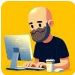
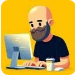
test: 系统消息监听

diff --git a/WeChatAuto4_X/wechatauto_py/src/wechat_auto_sdk/websocket_client.py b/WeChatAuto4_X/wechatauto_py/src/wechat_auto_sdk/websocket_client.py
@@ -1,15 +1,21 @@
+from __future__ import annotations
+
 import asyncio
 import websockets
 import uuid
 import json
 
 from collections.abc import Awaitable, Callable
+from typing import TYPE_CHECKING
 
 from wechat_auto_sdk.cancellation_token_source import CancellationTokenSource
 from wechat_auto_sdk.models.request_data import RequestData
 from wechat_auto_sdk.models.message_package import MessagePackage
+
 from wechat_auto_sdk.models.system_message_context import SystemMessageContext
-from wechat_auto_sdk.wechat_client import WeChatClient
+
+if TYPE_CHECKING:
+    from wechat_auto_sdk.wechat_client import WeChatClient
 
 
 class WebSocketClient:
@@ -24,7 +30,7 @@ class WebSocketClient:
         self._rev_loop_task: asyncio.Task | None = None
         # 群系统消息监控器
         self._group_system_message_monitor: dict[
-            str, Callable[[SystemMessageContext], Awaitable[None]]
+            str, Callable[[SystemMessageContext, WeChatClient], Awaitable[None]]
         ] = {}
         self._group_system_message_client: dict[str, WeChatClient] = {}
 
@@ -49,7 +55,8 @@ class WebSocketClient:
                     if self._group_system_message_monitor:
                         if self._group_system_message_monitor.get(result.request_id):
                             # 系统消息监听
-                            await self._process_system_message_monitor_callback(result)
+                            # await self._process_system_message_monitor_callback(result)
+                            asyncio.create_task(self._process_system_message_monitor_callback(result))
                             continue
                     business_future = self._pending_requests.pop(
                         result.request_id, None
@@ -73,17 +80,15 @@ class WebSocketClient:
         if not result.data:
             return
         callback = self._group_system_message_monitor[result.request_id]
-        system_monitor_result = json.loads(result.data)
+        new_messages = json.loads(result.data)
         client: WeChatClient = self._group_system_message_client[result.request_id]
         from_who: str = client.from_wechat
-        new_messages: list[str] = json.loads(system_monitor_result["new_messages"])
-        await callback(
-            SystemMessageContext(
-                from_who=from_who,
-                new_messages=new_messages,
-                client=client,
-            )
+
+        context = SystemMessageContext(
+            from_who=from_who,
+            new_messages=new_messages,
         )
+        await callback(context, client)
 
     async def start(self) -> None:
         """
@@ -113,6 +118,12 @@ class WebSocketClient:
         await self.ws.send(request.model_dump_json())
         return await future
 
+    async def send_withoud_wait(self, message: str, req_id: str | None = None) -> None:
+        """发送结构化数据,不待候返回值"""
+        request_id = uuid.uuid4().hex if req_id is None else req_id
+        request = RequestData(type="command", data=message, request_id=request_id)
+        await self.ws.send(request.model_dump_json())
+
     async def request(self, request: RequestData) -> str:
         """发送原始字符串"""
         loop = asyncio.get_running_loop()
@@ -130,15 +141,9 @@ class WebSocketClient:
         package: MessagePackage,
         request_id: str,
         nick_names: list[str],
-        callback: Callable[[SystemMessageContext], Awaitable[None]],
+        callback: Callable[[SystemMessageContext, WeChatClient], Awaitable[None]],
         client: WeChatClient,
     ) -> None:
         self._group_system_message_monitor[request_id] = callback
         self._group_system_message_client[request_id] = client
-        await self.send(package.model_dump_json(), package.request_id)
-
-    async def keep_running(self) -> None:
-        """
-        保存运行状态，即异步阻塞状态
-        """
-        await asyncio.Future()
+        await self.send_withoud_wait(package.model_dump_json(), package.request_id)

diff --git a/WeChatAuto4_X/WebSocketServer/Server/WebSockets/MessageHandler.cs b/WeChatAuto4_X/WebSocketServer/Server/WebSockets/MessageHandler.cs
@@ -12,12 +12,13 @@ using WeAutoCommon.Enums;
 using WeChatAuto.Components;
 using WeChatAuto.Models;
 using WeChatAuto.Options;
+using WeChatAuto.Services;
 
 public class MessageHandler : IDisposable
 {
     private readonly WeChatClientFactory factory;
     private readonly ILogger<MessageHandler> logger;
-    private readonly CancellationTokenSource cts = new CancellationTokenSource();
+    private  CancellationTokenSource cts = new CancellationTokenSource();
     private Task? groupSysMessageMonitorTask;
 
     public MessageHandler(WeChatClientFactory factory, ILogger<MessageHandler> logger)
@@ -25,7 +26,7 @@ public class MessageHandler : IDisposable
         this.factory = factory;
         this.logger = logger;
     }
-    public async Task<RequestData> HandleAsync(MessagePackageWrapper wrapper)
+    public async Task<RequestData> HandleAsync(MessagePackageWrapper wrapper, CancellationToken token = default)
     {
         var client = factory.GetWeChatClient(wrapper.FromWechat);
         RequestData response = new RequestData
@@ -383,9 +384,24 @@ public class MessageHandler : IDisposable
                 response.Data = remove_result.ToString();
                 break;
             case "AddGroupSystemMessageListener":
+                //关闭掉以前的线程
+                if (groupSysMessageMonitorTask != null)
+                {
+                    cts.Cancel();
+                    if (groupSysMessageMonitorTask.Status == TaskStatus.Running)
+                    {
+                        await groupSysMessageMonitorTask.WaitAsync(TimeSpan.FromSeconds(WeAutomation.Config.MonitorGroupInterval));
+                    }
+                    cts = new CancellationTokenSource();
+                }
                 payload = wrapper.Options!;
                 var nickNameList = JsonConvert.DeserializeObject<List<string>>(payload);
                 TaskCompletionSource tcs = new TaskCompletionSource();
+                CancellationToken cancellationToken = cts.Token;
+                if (token != default)
+                {
+                    cancellationToken = CancellationTokenSource.CreateLinkedTokenSource(cts.Token, token).Token;
+                }
                 groupSysMessageMonitorTask = Task.Run(async () =>
                 {
                     tcs.SetResult();
@@ -399,7 +415,7 @@ public class MessageHandler : IDisposable
                         };
                         await wrapper!.handler!.SendAsync(part_response);
                     };
-                    await client.AddGroupSystemMessageListener(nickNameList, func, cts.Token);
+                    await client.AddGroupSystemMessageListener(nickNameList, func, cancellationToken);
                 });
                 await tcs.Task;
                 break;

diff --git a/WeChatAuto4_X/wechatauto_py/src/wechat_auto_sdk/wechat_client.py b/WeChatAuto4_X/wechatauto_py/src/wechat_auto_sdk/wechat_client.py
@@ -1,4 +1,5 @@
 from __future__ import annotations
+
 import asyncio
 from datetime import date
 import uuid
@@ -19,6 +20,7 @@ from wechat_auto_sdk.models.friend_request_auto_accept_options import (
 )
 from wechat_auto_sdk.models.moments_options import MomentsOptions
 from wechat_auto_sdk.models.new_friend_back_item import NewFriendBackItem
+
 from wechat_auto_sdk.models.system_message_context import SystemMessageContext
 from wechat_auto_sdk.websocket_client import WebSocketClient
 from wechat_auto_sdk.models.owner_info import OwerInfo
@@ -944,7 +946,7 @@ class WeChatClient:
     async def add_group_system_message_listener(
         self,
         nick_names: list[str],
-        callback: Callable[[SystemMessageContext], Awaitable[None]],
+        callback: Callable[[SystemMessageContext,WeChatClient], Awaitable[None]],
     ) -> None:
         """加系统消息监听，以实现如： 检测到群主邀请好友后发送欢迎消息等功能
         注意：仅适用于群聊，不适用个人,个人请使用下面的开放式/固定式监听，另外，不支持注册监听后再新增待监听的群聊
@@ -967,11 +969,11 @@ class WeChatClient:
     async def _add_group_system_message_listener_core(
         self,
         nick_names: list[str],
-        callback: Callable[[SystemMessageContext], Awaitable[None]],
+        callback: Callable[[SystemMessageContext,WeChatClient], Awaitable[None]],
     ) -> None:
         request_id = uuid.uuid4().hex
         request_package = MessagePackage(
-            request_id=uuid.uuid4().hex,
+            request_id=request_id,
             func_Name="AddGroupSystemMessageListener",
             options=json.dumps(nick_names),
             from_wechat=self.from_wechat,
@@ -1007,3 +1009,9 @@ class WeChatClient:
             who (str): 好友/群聊名称
         """
         await self._do_remote_action("RemoveListeningFriend", who)
+
+    async def keep_running(self) -> None:
+        """
+        保存运行状态，即异步阻塞状态
+        """
+        await asyncio.Future(loop=asyncio.get_event_loop())

diff --git a/WeChatAuto4_X/wechatauto_py/tests/test_wechat_client.py b/WeChatAuto4_X/wechatauto_py/tests/test_wechat_client.py
@@ -1,15 +1,18 @@
+from __future__ import annotations
+
 import pytest
 import logging
 import asyncio
 from datetime import date
+from typing import TYPE_CHECKING
 
 from wechat_auto_sdk.enums.navigation_type import NavigationType
-from wechat_auto_sdk.models.friend_request_auto_accept_options import (
-    FriendRequestAutoAcceptOptions,
-)
+from wechat_auto_sdk.models.friend_request_auto_accept_options import FriendRequestAutoAcceptOptions
 from wechat_auto_sdk.models.moments_options import MomentsOptions
 from wechat_auto_sdk.models.new_friend_back_item import NewFriendBackItem
-from wechat_auto_sdk.wechat_client import WeChatClient
+if TYPE_CHECKING:
+    from wechat_auto_sdk.models.system_message_context import SystemMessageContext
+    from wechat_auto_sdk.wechat_client import WeChatClient
 
 logger = logging.getLogger(__name__)
 
@@ -636,9 +639,27 @@ async def test_add_moments(client: WeChatClient):
         options,
     )
 
+
 @pytest.mark.asyncio
 async def test_remove_moments(client: WeChatClient):
     """
     移除自己发送的朋友圈
     """
     assert await client.remove_moments("测试的朋友圈消息")
+
+@pytest.mark.asyncio
+async def test_add_group_system_message_listener(client: WeChatClient):
+    """
+    增加系统消息监听，以实现如： 检测到群主邀请好友后发送欢迎消息等功能
+    """
+    async def system_group_monitor_callback(context: SystemMessageContext,client:WeChatClient) -> None:
+        print(f"{context.from_who = }")
+        print(f"{context.new_messages = }")
+        await client.send_message("DroidMirror官方技术支持",f"发生了动作 {context.new_messages}，呵呵")
+        i = 0
+        print(i)
+    
+    await client.add_group_system_message_listener(
+        ["DroidMirror官方技术支持"], system_group_monitor_callback
+    )
+    await client.keep_running()

diff --git a/WeChatAuto4_X/WebSocketServer/Server/WebSockets/SocketSessionChannel.cs b/WeChatAuto4_X/WebSocketServer/Server/WebSockets/SocketSessionChannel.cs
@@ -39,7 +39,7 @@ public class SocketSessionChannel : IDisposable
                 await foreach (var message in this.channel.Reader.ReadAllAsync(cts.Token))
                 {
                     var handler = provider.GetRequiredService<MessageHandler>();
-                    var result = await handler.HandleAsync(message);  //处理请求，并且返回结果
+                    var result = await handler.HandleAsync(message,cts.Token);  //处理请求，并且返回结果
                     await message!.handler!.SendAsync(result);
                 }
             }

diff --git a/WeChatAuto4_X/wechatauto_py/src/wechat_auto_sdk/models/system_message_context.py b/WeChatAuto4_X/wechatauto_py/src/wechat_auto_sdk/models/system_message_context.py
@@ -1,12 +1,9 @@
 from pydantic import BaseModel
 
-from wechat_auto_sdk.wechat_client import WeChatClient
 
 class SystemMessageContext(BaseModel):
     # 本次消息的来源，为好友或者群聊名称.
     from_who: str
     # 新消息气泡列表
     new_messages: list[str]
-    # 当前微信客户端,通过Client可以执行发消息等操作
-    client: WeChatClient
     

diff --git a/WeChatAuto4_X/WebSocketServer/Server/WebSockets/WebSocketHandler.cs b/WeChatAuto4_X/WebSocketServer/Server/WebSockets/WebSocketHandler.cs
@@ -133,8 +133,9 @@ public class WebSocketHandler
                 true,
                 CancellationToken.None);
         }
-        catch (Exception)
+        catch (Exception ex)
         {
+            logger.LogError($"WebSocket 服务发送异常:{ex.ToString()}");
             throw;
         }
         finally
